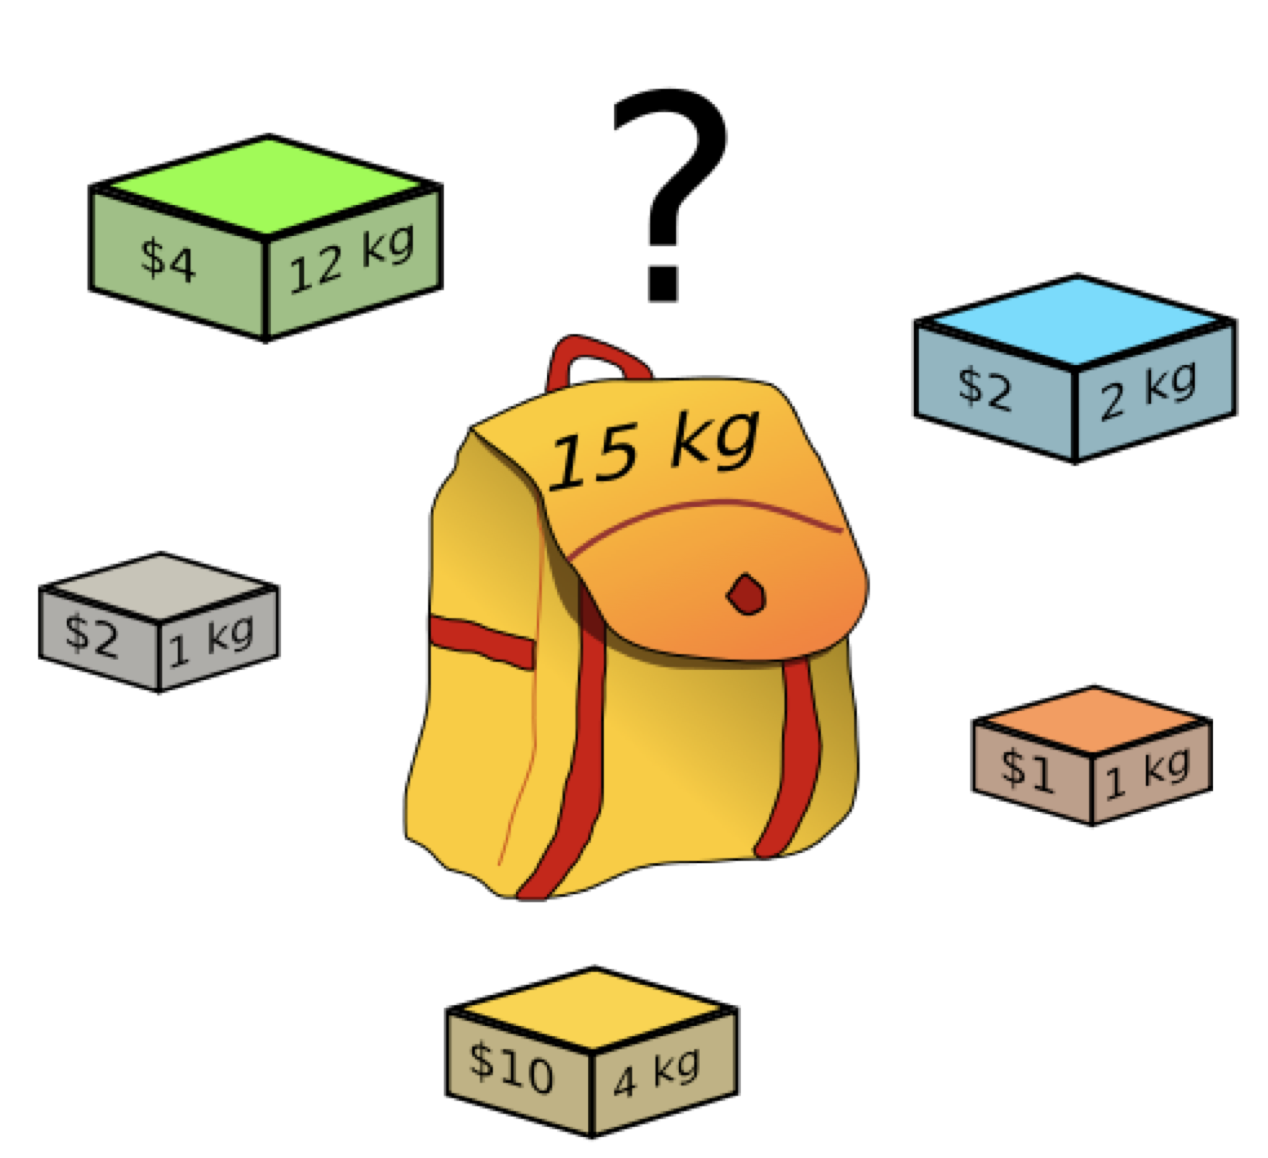
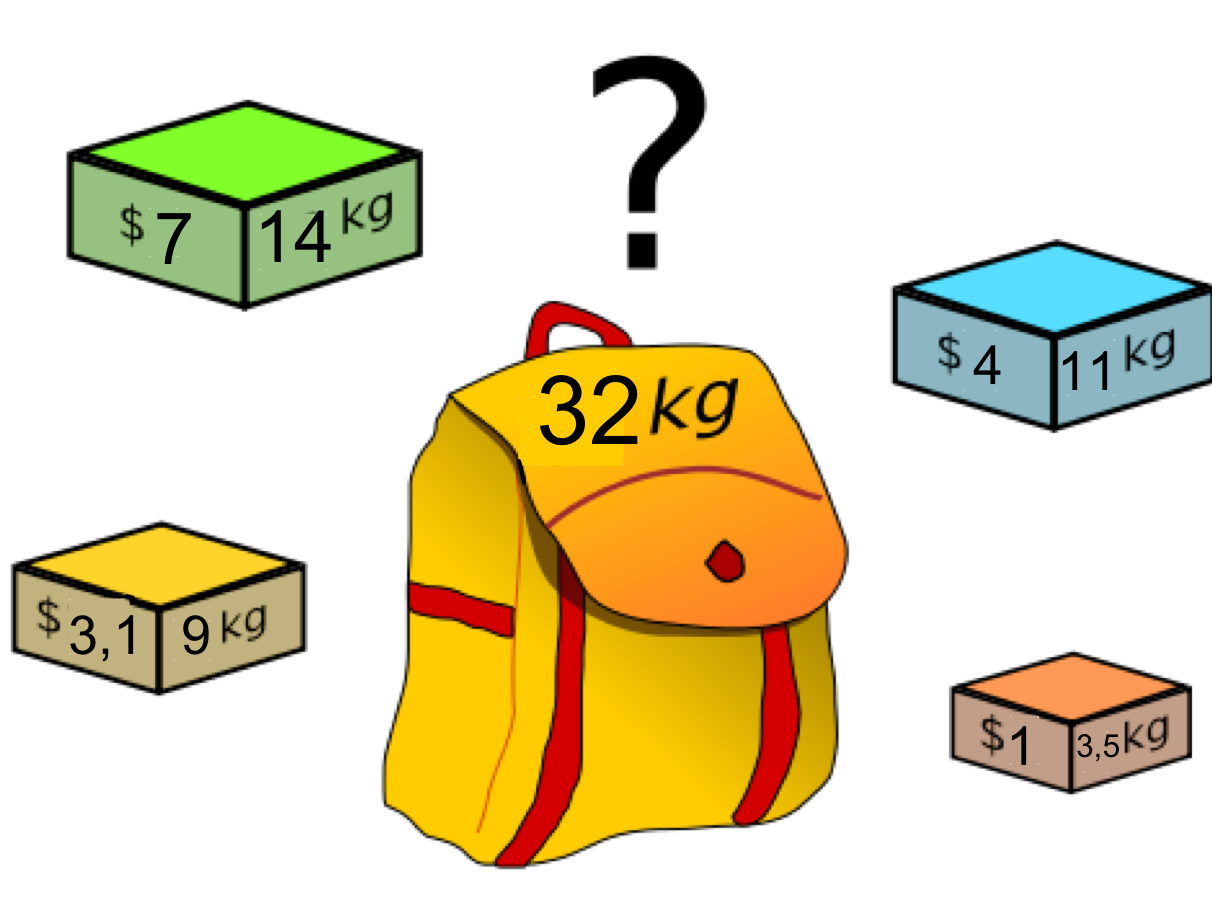
maj TP algo et donnees en tables NSI_1

diff --git a/content/docs/NSI_1/NSI_index.html b/content/docs/NSI_1/NSI_index.html
@@ -170,8 +170,7 @@ bookShowToc: false
   </ul>
 </p>
 
-  </div>
-  </div> <!-- fermeture BOX --->
+
 
 <p>Semaine du 18/03/24
   <ul>
@@ -203,6 +202,9 @@ bookShowToc: false
   </ul>
 </p>
 
+  </div>
+  </div> <!-- fermeture BOX --->
+
 <p>Semaine du 15/04/24
   <ul>
     <li>TP algorithme de parcours et de tri dans une liste: <a href="https://capytale2.ac-paris.fr/web/c/f378-3428005">Lien vers Capytale</a></li>
@@ -228,7 +230,7 @@ bookShowToc: false
 </p>
 
 
-<p>Semaine du 24/05/24
+<p>Semaine du 20/05/24
   <ul>
     <li>TP sur l'analyse de données et la géolocalisation dans le triangle des bermudes: <a href="https://capytale2.ac-paris.fr/web/c/0d96-3509357">Lien</a></li>
     <li>Cours: Algorithmes de tri et l'étude de la complexité: <a href="/docs/NSI_1/sequences/page2/">Lien</a></li>
@@ -236,16 +238,17 @@ bookShowToc: false
 </p>
 
 
-<!--
-<p>Semaine du 01/06/24
+
+<p>Semaine du 27/05/24
   <ul>
     <li>Cours: Données en table: <a href="/docs/NSI_1/sequences/page3/">Lien</a></li>
-    <li>TD en classe sur les listes, dictionnaires et dataframes: <a href="https://capytale2.ac-paris.fr/web/c/09d9-3509337">Lien</a></li>
-    <li>TP sur l'analyse de données en tables (Cinema, BDD sur le basket en NBA): <a href="https://capytale2.ac-paris.fr/web/c/3293-3509347">Lien</a></li>
+    <li>TD <b>en classe</b> sur les listes, dictionnaires et dataframes: <a href="https://capytale2.ac-paris.fr/web/c/09d9-3509337">Lien</a></li>
+    <li>TP1 <b>en demi groupe</b> sur l'analyse de données en tables (Cinema, BDD sur le basket en NBA): <a href="https://capytale2.ac-paris.fr/web/c/3293-3509347">Lien</a></li>
+    <li>TP2: IA et algorithme de recherche des plus proches voisins: <a href="https://capytale2.ac-paris.fr/web/c/1844-3652011">Predire le poste d'un jour de NBA</a></li>
   </ul>
 </p>
 
--->
+
 
 
 

diff --git a/content/docs/NSI/NSI_index.html b/content/docs/NSI/NSI_index.html
@@ -288,6 +288,12 @@ bookShowToc: false
   </ul>
 </p>
 
+<p>Semaine du 27/05/2024
+  <ul>
+    <li>Algo: Cours programmation dynamique: <a href="/docs/NSI/algorithmes/page6/">Lien</a></li>
+  </ul>
+</p>
+
 
 <!------- annee precedente 2022-2023 ---------------->
 

diff --git a/content/docs/NSI/algorithmes/page6.md b/content/docs/NSI/algorithmes/page6.md
@@ -21,7 +21,7 @@ La programmation dynamique permet de résoudre plus *efficacement des problèmes
 3. On reconstruit la solution optimale en remontant les calculs de la valeur de la solution optimale.
 -->
 
-La programmation dynamique consiste à résoudre un problème en le décomposant en sous-problèmes, puis à **résoudre les sous-problèmes**, des plus petits aux plus grands **en stockant les résultats intermédiaires**, et en suivant une règle d'optimalité.
+La programmation dynamique consiste à résoudre un problème en le décomposant en sous-problèmes, puis à **résoudre les sous-problèmes**, des plus petits aux plus grands **en stockant les résultats intermédiaires**, et en suivant une règle d'optimalité. La solution donnée par un algorithme glouton est optimale, mais n'est pas forcement la solution *la plus optimale* au problème.
 
 Cela diffère des *algorithmes de type diviser pour régner* par le fait que les sous-problèmes considérés ne sont pas nécessairement indépendants. Pour les algorithmes de type *diviser pour régner*, on partitionne le problème en sous problèmes indépendants, qui seront résolus recursivement. Puis on combine leurs solutions pour résoudre le problème initial. Mais cela peut revenir à résoudre plusieurs fois le même sous-problème, et peut être parfois inefficace.
 
@@ -59,9 +59,11 @@ $$C\left(\begin{matrix}i\\\j\end{matrix}\right)=C\left(\begin{matrix}i-1\\\j-1\e
 
 {{< img src="../images/page6_calcul.png" >}}
 ## Algorithme récursif non optimisé
+Les algorithmes de type *diviser pour regner* sont souvent exprimés de manière recursive.
 
 ```python
 def pascal_recur(n,p):
+    # calcul d'un coefficient par recursivité
     if p==0:return 1
     if p>n:
         return 0
@@ -100,6 +102,9 @@ On peut alors tester le programme:
 On remarque que l'on calcule souvent les mêmes coefficients binomiaux : 
 
 {{< img src="../images/page6_arbre_binomiaux.png" alt="arbre de calculs binomiaux" caption="arbre de calcul des coefficients pour n=4 p=2" >}}
+
+*On voit que certains termes, comme celui (n=2, p=1) est calculé plusieurs fois. Dans les branches (n=3, p=1) et (n=3, p=2). Cela est du au fait que les 2 branches de l'arbre sont indépendantes.*
+
 La mémoïzation consistera alors à stocker dans un tableau les solutions pour les sous-problèmes afin de ne pas les recalculer...
 
 ## Algorithme avec mémoïzation
@@ -109,21 +114,20 @@ Chaque valeur du triangle n'est calculée qu'une seule fois.
 def trianglePascal(n):
     T = [[0] * (n+1) for p in range(n+1)]
     for n in range(n+1):
-        if n == 0:
-            T[n][0] = 1
-        else:
-            for k in range(n+1):
-                if k == 0:
-                    T[n][0] = 1
-                else:
-                    T[n][k] = T[n-1][k-1] + T[n-1][k]
+        for k in range(n+1):
+            if k == 0:
+                T[n][0] = 1
+            else:
+                T[n][k] = T[n-1][k-1] + T[n-1][k]
     return T
 ```
+
+L'algorithme non recursif, avec mémoïzation est plus efficace.
 
 
 # Algorithmes gloutons
 ## Le problème du rendu de monnaie 
-Le problème du rendu de monnaie est un problème d'algorithmique. Il s'énonce de la façon suivante : étant donné un système de monnaie (pièces et billets), comment rendre une somme donnée de façon optimale, c'est-à-dire avec le nombre minimal de pièces et billets ?
+Le problème du rendu de monnaie est un problème d'algorithmique. Il s'énonce de la façon suivante : étant donné un système de monnaie (pièces et billets), comment **rendre une somme donnée de façon optimale**, c'est-à-dire avec le **nombre minimal** de pièces et billets ?
 
 Par exemple, la meilleure façon de rendre 7 euros est de rendre un billet de cinq et une pièce de deux, même si d'autres façons existent (rendre 7 pièces de un euro, par exemple).
 
@@ -134,9 +138,38 @@ Ce problème est traité d'une manière différente de ce que l'on a vu en [1ere
 * soit la piece est inférieure à la monnaie à rendre: alors on soustrait la piece à la somme à rendre et on appelle la fonction de manière récursive avec cette même caisse, et la nouvelle somme à rendre.
 * soit la piece est supérieure à la somme à rendre. on retire la piece de la caisse. Et on appelle de manière récursive la fonction avec la nouvelle caisse, et la même somme.
 
+La condition de base sera: la liste de pieces est vide.
+
+On utilisera une liste `rendu` pour placer les pieces rendues.
+
+```python
+def rendre_monnaie(somme,pieces,rendu):
+    if pieces == []:
+        return rendu
+    if pieces[-1]<=somme:
+        rendu.append(pieces[-1])
+        return rendre_monnaie(somme-pieces[-1],pieces,rendu)
+    else:
+        pieces.pop()
+        return rendre_monnaie(somme,pieces,rendu)
+
+rendre_monnaie(49,[1,2,5,10,20,50,100],[])
+# affiche 
+# [20, 20, 5, 2, 2]
+```
+
+
+
 **Un système monétaire non canonique:** 
 
-> Que renvoie la fonction pour rendre 24 pences avec le [système imperial](https://fr.wikipedia.org/wiki/Shilling_britannique) où pieces = [240,60,30,24,12,6,3,1] ? Représenter pour cela l'arbre des appels. Quel est le rendu optimal avec cette méthode? Expliquer alors pourquoi l'agorithme naïf a une complexité exponentielle.
+> 1. Que renvoie la fonction pour rendre 53 pences avec le [système imperial](https://fr.wikipedia.org/wiki/Shilling_britannique) où pieces = [240,60,30,24,12,6,3,1] ? 
+> 2. Le rendu est-il optimal avec cette méthode? Ou bien existe t-il une autre façon de rendre la monnaie, avec moins de pieces?
+
+> 3. Représenter une partie de l'arbre des combinaisons possibles pour rendre un montant égal à 15, en choisissant une à une chaque piece de la caisse `[1, 7, 9]`. Quel est le choix optimal? 
+
+**Voir l'animation sur le site** [mpechaud.fr](https://mpechaud.fr/scripts/recursivite/recursivite.html#:~:text=Rendu%20de%20Monnaie%20(diviser%20pour%20r%C3%A9gner),-On%20se%20donne&text=On%20peut%20utiliser%20la%20strat%C3%A9gie,utilis%C3%A9es%2C%20class%C3%A9e%20par%20valeurs%20d%C3%A9croissantes.&text=Si%20s%3D0%2C%20afficher%20l.&text=On%20appelle%20alors%20cet%20algorithme%20en%20partant%20de%20la%20liste%20l%20vide.)
+
+Sur l'animation, l'algorithme traite TOUTES les combinaisons de rendu de monnaie. L'arbre des appels recursifs montre que la complexité de cette méthode croit exponentiellement avec la taille des paramètres d'entrée.
 
 Contrairement aux problèmes étudiés précédement (tri d’un tableau, calcul de x<sub>n</sub>...), où il y avait toujours une unique solution, dans les problèmes d’optimisation, il peut y avoir des solutions valides (satisfaisant les contraintes) non optimales, une ou plusieurs solutions (valides), optimales (minimisant/maximisant une certaine mesure), voire pas du tout de solution valide. 
 
@@ -177,7 +210,7 @@ L'algorithme remplit le tableau depuis la valeur 1 jusqu'à 15.
 
 Le tableau montre les choix que réalise l'algorithme.
 
-> Représenter l'arbre des combinaisons possibles pour rendre un montant égal à 9, en choisissant une à une chaque piece de la caisse {1, 7, 9}. On utilisera alors les résultats déjà trouvés pour rendre la valeur restante. Quel est le choix optimal? La complexité a t-elle été réduite?
+> Comment cet algorithme parvient-il à reduire le nombre de combinaisons pour rendre la monnaie?
 
 **Remarque:** Ce problème est [NP-complet](https://fr.wikipedia.org/wiki/Probl%C3%A8me_NP-complet) dans le cas général, c'est-à-dire difficile à résoudre. Cependant pour certains systèmes de monnaie dits canoniques, l'[algorithme glouton](https://fr.wikipedia.org/wiki/Algorithme_glouton) est optimal.
 
@@ -211,12 +244,13 @@ Nous allons chercher à adapter l'algorithme du rendu de monnaie:
 
 *Question*:
 
-> Déterminer le choix idéal pour un sac à dos de capacité 30kg, avec les objets suivants, proposés en nombre infini:
+> Déterminer le choix idéal pour un sac à dos de capacité 32kg, avec les objets suivants, proposés en nombre infini: `[{"valeur": 7, "poids":13},{"valeur": 4, "poids":11},{"valeur": 3.1, "poids":9},{"valeur": 1, "poids":3.5}]
 
 |Objets | 1 | 2 | 3  | 4 |
 | --- | --- | --- | --- | --- |
-| valeur | 7 | 4 | 3 | 3 |
-|poids (kg) | 13 |12| 8 |10|
+| valeur | 7 | 4 | 3.1 | 1 |
+|poids (kg) | 14 |11| 9 |3.5|
+|ratio val/poids | 0.5  | 0.36  |  0.34 | 0.29  |
 
 # Le problème du voyageur du commerce
 ## énoncé du problème

diff --git a/content/docs/NSI/architecture/page7.md b/content/docs/NSI/architecture/page7.md
@@ -113,15 +113,32 @@ Lors d'une communication HTTPS: les objectifs d'authentification, authenticité 
 > **Signature numérique:** Lorsqu'on utilise sa propre clé privée pour envoyer un message, et qu'une autorité de certification peut garantir l'origine de cette clé privée, alors ce message envoyé a valeur de signature numérique. Il permet d'authentifier l'emetteur du message.
 
 # Fonction de hachage: intégrité
-Une fonction de hachage est un algorithme qui prend en entrée une chaine de caractères de longueur quelconque, et qui retourne en sortie une chaine de caractères de longueur n fixée, appelée *empreinte*. Il est presque impossible de retrouver la chaine de caractères d'origine à partir de cette empreinte.
+Une fonction de hachage est un algorithme qui prend en entrée une chaine de caractères de longueur quelconque, et qui retourne en sortie une chaine de caractères de longueur n fixée, appelée *empreinte*. Il est presque impossible de retrouver la chaine de caractères d'origine à partir de cette empreinte, tant la diffusion est importante suite à la modification d'une partie même infime du texte à chiffrer par cette méthode.
 
-Une application classique de l'utilisation de la fonction de hachage est le stockage de mots de passe, ou bien la verification de l'intégrité d'un message envoyé (comme un checksum).
+Une application classique de l'utilisation de la fonction de hachage est le stockage de mots de passe, ou bien la verification de l'intégrité d'un message envoyé (comme un checksum). Mais aussi pour la constitution d'une *blockchain*:
 
+Voir: [L'utilité du hachage pour la chaîne de blocs: rapport du Sénat](https://www.senat.fr/rap/r17-584/r17-584_mono.html#toc75)
 
+Dans la blockchain, chaque *bloc* contient le *hash* du bloc précédent, les données des nouvelles transactions, et le nouveau *hash* constitué à partir de ces données (hash du bloc precedent + transactions).
 
-# Le Blockchain
+# Blockchain
+*Une blockchain est un registre, une grande base de données qui a la particularité d’être partagée simultanément avec tous ses utilisateurs (constituant les noeuds d'un réseau distribué), tous également détenteurs de ce registre, et qui ont également tous la capacité d’y inscrire des données, selon des règles spécifiques fixées par un protocole informatique très bien sécurisé grâce à la cryptographie. Il est impossible d'effacer ou modifier ce qui a déjà été écrit dans ce registre. En pratique, une chaîne de blocs (blockchain) est une base de données qui contient l’historique de tous les échanges effectués entre ses utilisateurs depuis sa création.* [economie.gouv](https://www.economie.gouv.fr/entreprises/blockchain-definition-avantage-utilisation-application#)
+
+La sécurité vient du consensus (PoW, Proof of Work) des validateurs lorsque de nouveaux ajouts sont proposés. La validation consiste en un calcul long et difficile sur les données de l'historique de la blockchain. Une fois qu'il y a *consensus* (un commun accord), un nouveau bloc est ajouté, et la base de données (la blockchain) est alors proposée à tous les noeuds du reseau. (mise à jour).
+
+Cette tâche “ingrate” realisée par les validateurs est remunérée. Le bloc contient ainsi l'adresse de cryptomonnaies, qui sont partagées entre validateurs: Un registre distribué doit être accompagné d'une cryptomonnaie (propriétaire ou utilisée à partir d'un autre registre) afin de fournir des incitations pour maintenir opérationnels les programmes de validation et de synchronisation.
+
+*Pour résumer, une blockchain est un registre regroupant les transactions et adresses possédants des Bitcoins (ou autre cryptomonnaie), sécurisé par un protocole de validation par calcul et consensus.*
+
+La technologie "blockchain" s’est développée pour soutenir des transactions réalisées via les cryptomonnaies/crypto-actifs. Mais d'autres domaines et secteurs d’activités, marchands ou non marchands, publics ou privés, utilisent déjà la chaîne de blocs (blockchain) ou prévoient de le faire dans les années à venir: Dans le secteur de l’assurance par exemple, l’apport de la blockchain tient par exemple à l’automatisation des procédures de remboursement.
+
+Il est possible de *lire* dans la blockchain. On utilise pour cela un *[explorateur de blocs](https://www.ledger.com/fr/academy/comment-consulter-lhistorique-des-transactions-sur-la-blockchain)*.
 
 {{< img src="../images/scienceetonnante2.png" link="https://www.youtube.com/watch?v=du34gPopY5Y" caption="video sciences etonnantes - blockchain" >}}
+
+Il existe un autre type de validation, le PoS (Proof of Stake, ou preuve d'enjeu), qui permet d'augmenter grandement le flux de transactions. La blockchain Ethereum par exemple a effectué sa transition de la preuve de travail (PoW) vers une preuve d'enjeu (PoS) en septembre 2022. Pour participer à la sécurisation du réseau d’une blockchain PoS, il suffit d’avoir accumulé une quantité suffisante de jetons de la cryptomonnaie échangée sur le réseau. Plus une personne possédera de jetons d’une cryptomonnaie, plus on considérera que la sécurité du réseau est un enjeu important pour elle. Il y aura alors plus de chances d’être sélectionné (il y a une part d'aleatoire) pour produire un nouveau bloc et obtenir une récompense, en jetons. 
+
+
 
 # Exercices
 ## Nombre de clés: 
